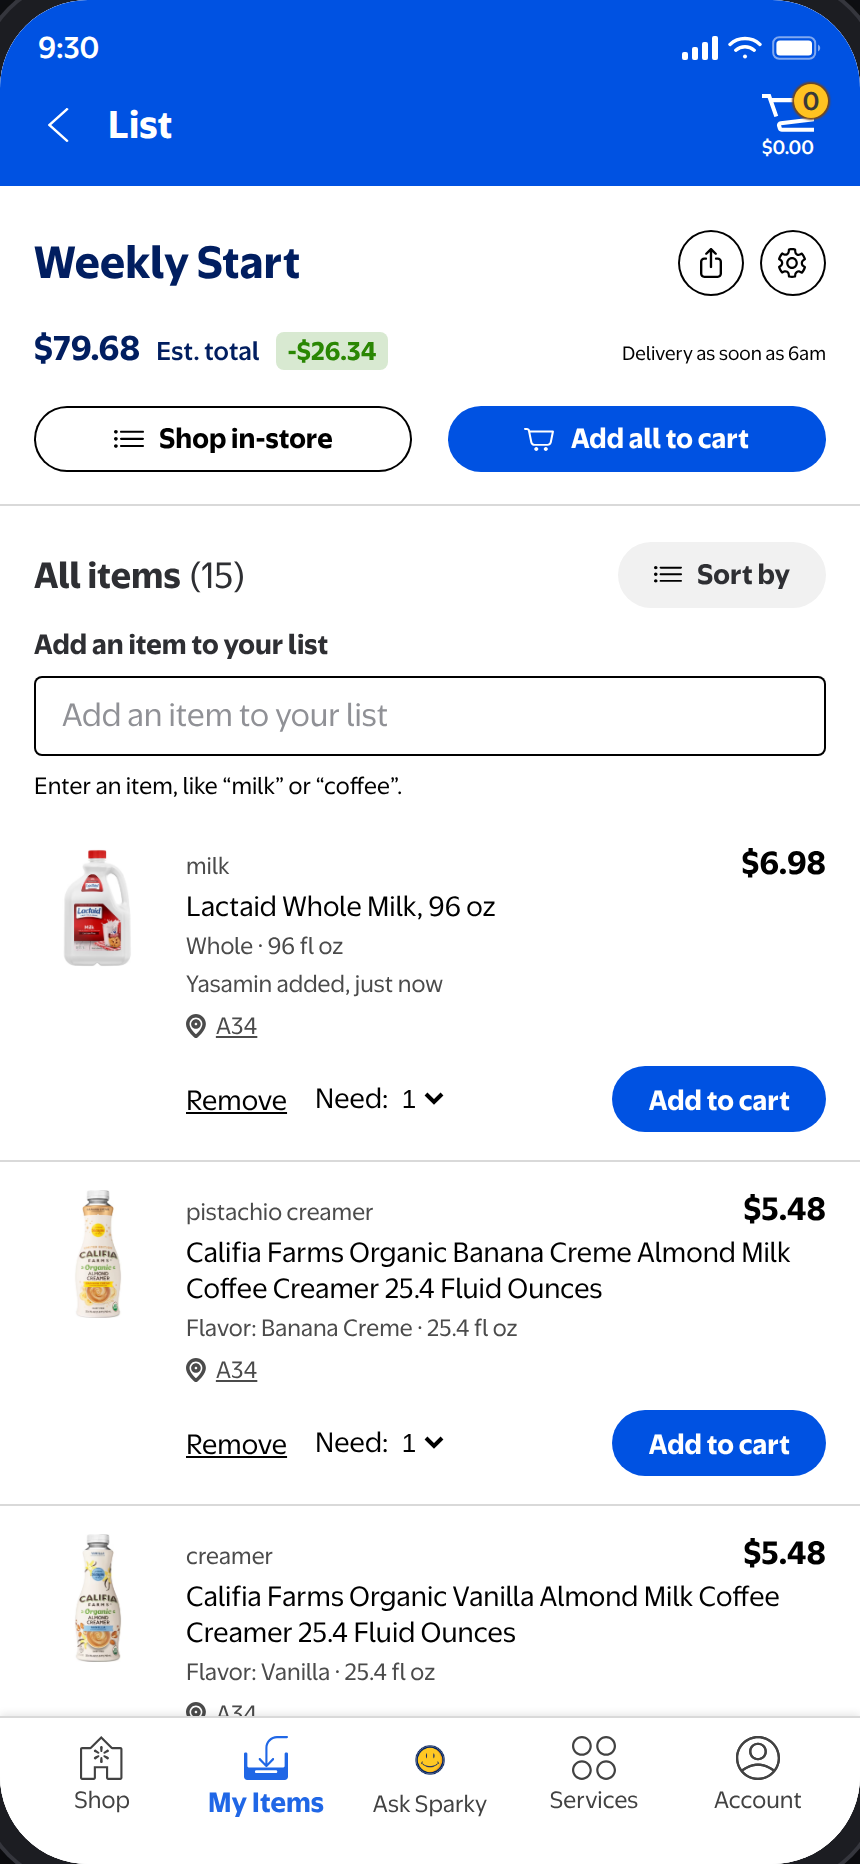
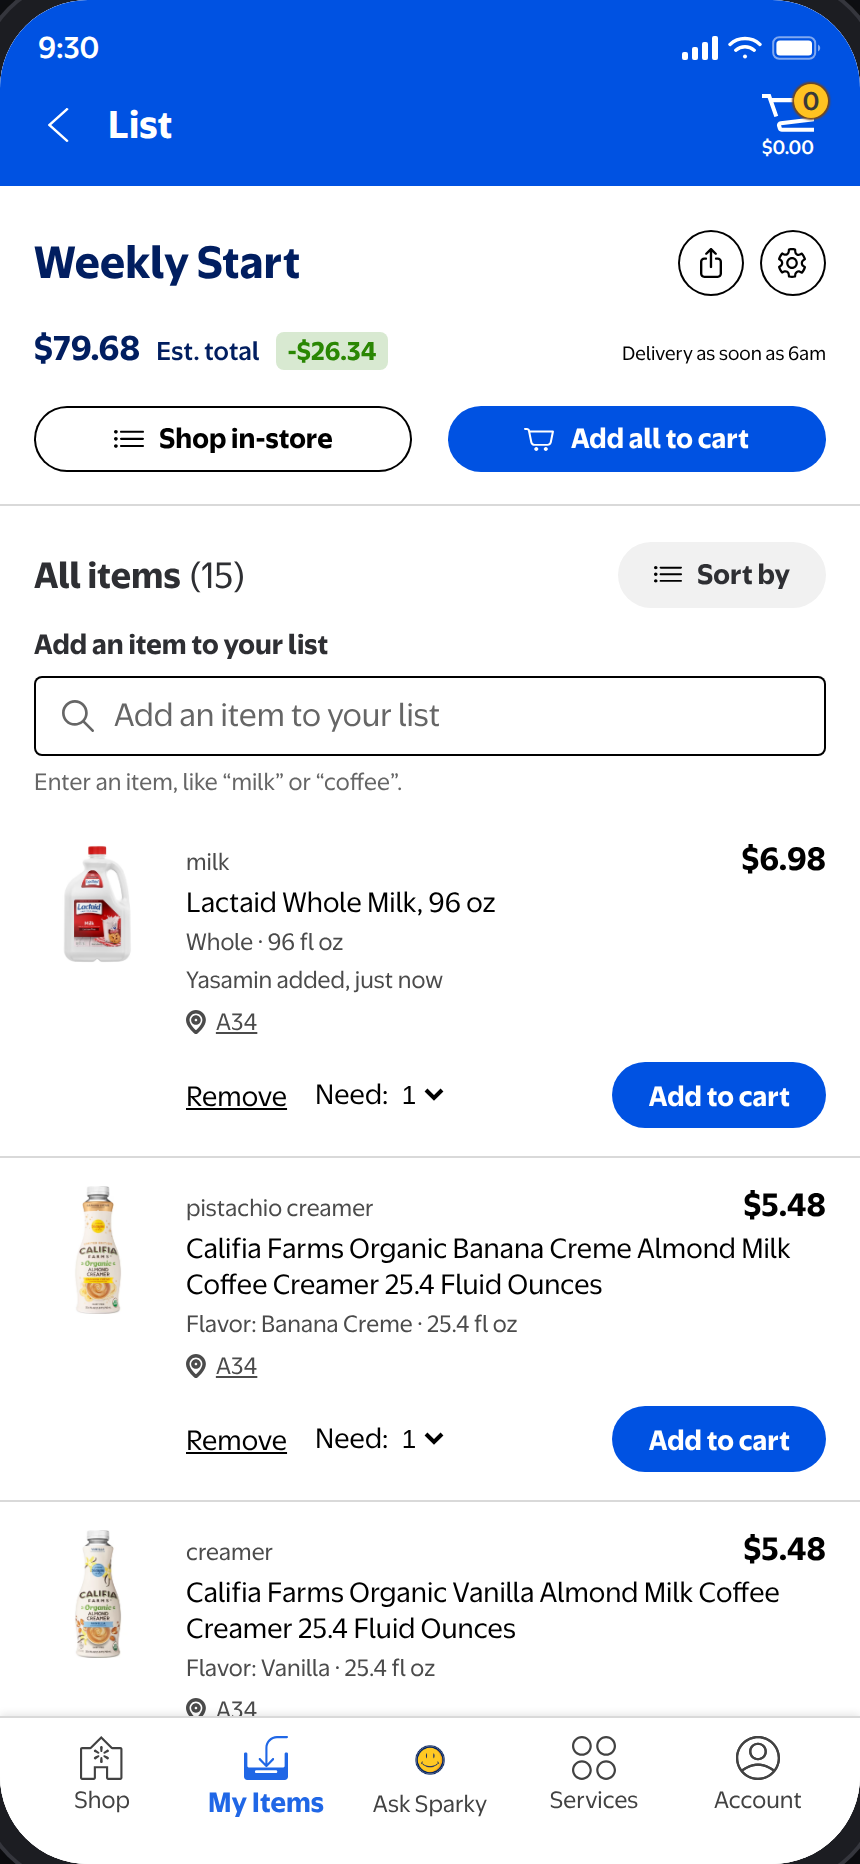
Fit the frame to the viewport, and give inputs real states
Frame
  The phone keeps the design's true 430x932 and is scaled only as far as the
  viewport demands, inside a wrapper that reserves the scaled footprint, so
  the whole device is visible with no page scroll. Verified at five window
  sizes from 1440x780 down to 390x844. The scale is a plain 2D transform with
  no will-change: pinning the raster scale is what actually softens text, not
  scaling itself.

Ask Sparky
  Was using 777bb19c, which is the same artwork flattened onto an opaque
  white square - that white box was showing in the nav. Swapped to 23e704fc,
  the 300x300 RGBA original from the same file.

Inputs
  Search is a real type=search in a form, with an accessible name, muted
  placeholder (it was full-ink black, which reads as a filled value), visible
  hover and focus states, and a clear button that appears once there is text.
  The same treatment covers the add-an-item and list-name fields, plus hint
  text tied by aria-describedby and a styled disabled state.

  One bug found while testing: the clear button was absolutely positioned but
  .searchfield was not a positioning context, so it landed on top of the cart
  button and swallowed its clicks. Inside the pill it now flows normally in
  the barcode's slot.

List view
  Rows go from 13px to 20px vertical padding, and every row carries a flash
  tag. The picked-items rows follow the same spacing in list view.

Cards
  The subtitle under each list title steps one place up the design's ramp,
[…]

diff --git a/app/src/design/tokens.css b/app/src/design/tokens.css
@@ -49,9 +49,17 @@ ul, ol { margin: 0; padding: 0; list-style: none; }
 /* ---------------- device shell ----------------
    The frame is the design's own 430x932. It is never scaled — scaling by a
    fractional factor resamples every glyph, which is what looked blurry. */
-.stage { min-height: 100%; display: grid; place-items: center; padding: 16px; }
+.stage { min-height: 100%; display: grid; place-items: center; padding: 12px; overflow: hidden; }
+
+/* `.fit` reserves the SCALED footprint so the page never scrolls; `.device`
+   keeps its true 430x932 geometry and is scaled from its top-left corner.
+   No will-change / 3D transform here — those pin the raster scale and are what
+   actually makes scaled text look soft. */
+.fit { position: relative; flex: 0 0 auto; }
+.fit > .device { position: absolute; top: 0; left: 0; transform-origin: top left; }
+
 .device {
-  width: min(var(--screen-w), 100vw);
+  width: var(--screen-w);
   height: var(--screen-h);
   background: var(--surface);
   border-radius: 44px;
@@ -87,11 +95,45 @@ ul, ol { margin: 0; padding: 0; list-style: none; }
   flex: 1; height: 42px; background: #fff; border-radius: var(--r-pill);
   display: flex; align-items: center; gap: 10px; padding: 0 16px;
 }
+/* ---------------- inputs ----------------
+   Placeholder is muted so it never reads as a filled value; focus is visible,
+   hover is felt, and a clear affordance appears once there is something to
+   clear. Touch targets stay at 40px+. */
+.searchfield {
+  position: relative;
+  transition: box-shadow .15s;
+  box-shadow: inset 0 0 0 1px transparent;
+}
+/* inside the pill the clear button takes the barcode's slot, so it flows
+   normally rather than being absolutely placed */
+.searchfield .inputclear { position: static; }
+.searchfield:hover { box-shadow: inset 0 0 0 1px var(--muted-2); }
+.searchfield:focus-within { box-shadow: 0 0 0 3px rgba(255,194,33,.9); }
 .searchfield .searchinput {
   flex: 1; border: 0; outline: 0; background: none;
   font-size: 15px; color: var(--ink); min-width: 0;
 }
-.searchfield .searchinput::placeholder { color: var(--ink); opacity: 1; }
+.searchfield .searchinput::placeholder { color: var(--ink-5); opacity: 1; }
+.searchfield .searchinput::-webkit-search-cancel-button { display: none; }
+
+.field {
+  transition: box-shadow .15s;
+}
+.field:hover:not(:disabled) { box-shadow: inset 0 0 0 1px var(--ink-2); }
+.field:focus, .field:focus-visible {
+  outline: 0;
+  box-shadow: inset 0 0 0 2px var(--wm-blue), 0 0 0 3px rgba(0,82,226,.18);
+}
+.field::placeholder { color: var(--ink-5); opacity: 1; }
+.field:disabled { background: var(--surface-2); color: var(--muted); box-shadow: inset 0 0 0 1px var(--line); }
+
+.inputwrap { position: relative; display: flex; align-items: center; }
+.inputclear {
+  position: absolute; right: 10px; width: 22px; height: 22px; border-radius: 999px;
+  background: var(--ink-2); display: grid; place-items: center;
+}
+.inputclear:hover { background: var(--ink); }
+.inputhint { font-size: 11px; color: var(--ink-5); margin-top: 6px; }
 
 .cartbtn { position: relative; width: 40px; display: grid; justify-items: center; }
 .cartbadge {
@@ -169,6 +211,8 @@ ul, ol { margin: 0; padding: 0; list-style: none; }
 .aisle-head strong { font-weight: 700; }
 
 .itemrow { display: flex; gap: 12px; padding: 14px 17px; border-bottom: 1px solid var(--line); }
+/* List view trades density for breathing room. */
+.itemrow.compact { padding: 20px 17px; }
 /* Picked items stay at full opacity — only the tick marks them done. */
 .itemrow.checked { opacity: 1; }
 .itemrow .thumb { width: 64px; height: 64px; object-fit: contain; flex: 0 0 64px; }

diff --git a/app/src/App.tsx b/app/src/App.tsx
@@ -7,39 +7,48 @@ import ListDetail from './screens/ListDetail';
 import InStore from './screens/InStore';
 import TripSummary from './screens/TripSummary';
 
-const H = 932, BEZEL = 26, PAD = 32;
+const W = 430, H = 932, BEZEL = 26, PAD = 24;
 
 /**
- * The phone keeps 1:1 pixels — scaling by a fractional factor resamples every
- * glyph and image, which is what made the earlier build look soft. When the
- * viewport is short the shell simply gets shorter and scrolls internally.
+ * The frame keeps the design's true 430x932 and is scaled only as far as the
+ * viewport demands, so the whole phone is always visible without page scroll.
+ * Scaling is a plain 2D transform with no will-change: Chrome re-rasterises
+ * text at the composited scale, which is what keeps it sharp.
  */
-function useDeviceHeight() {
-  const [h, setH] = useState(H);
+function useFitScale() {
+  const [k, setK] = useState(1);
   useEffect(() => {
-    const fit = () => setH(Math.max(560, Math.min(H, window.innerHeight - BEZEL - PAD)));
+    const fit = () => setK(Math.min(1,
+      (window.innerWidth  - PAD) / (W + BEZEL),
+      (window.innerHeight - PAD) / (H + BEZEL)));
     fit();
     window.addEventListener('resize', fit);
-    return () => window.removeEventListener('resize', fit);
+    window.addEventListener('orientationchange', fit);
+    return () => {
+      window.removeEventListener('resize', fit);
+      window.removeEventListener('orientationchange', fit);
+    };
   }, []);
-  return h;
+  return k;
 }
 
 export default function App() {
-  const h = useDeviceHeight();
+  const k = useFitScale();
   return (
     <Store>
       <HashRouter>
-        <div className="stage" style={{ ['--device-h' as string]: `${h}px` }}>
-          <Device>
-            <Routes>
-              <Route path="/" element={<Lists />} />
-              <Route path="/list/:id" element={<ListDetail />} />
-              <Route path="/list/:id/instore" element={<InStore />} />
-              <Route path="/list/:id/done" element={<TripSummary />} />
-              <Route path="*" element={<Navigate to="/" replace />} />
-            </Routes>
-          </Device>
+        <div className="stage">
+          <div className="fit" style={{ width: W * k, height: H * k }}>
+            <Device style={{ transform: k === 1 ? undefined : `scale(${k})` }}>
+              <Routes>
+                <Route path="/" element={<Lists />} />
+                <Route path="/list/:id" element={<ListDetail />} />
+                <Route path="/list/:id/instore" element={<InStore />} />
+                <Route path="/list/:id/done" element={<TripSummary />} />
+                <Route path="*" element={<Navigate to="/" replace />} />
+              </Routes>
+            </Device>
+          </div>
         </div>
       </HashRouter>
     </Store>

diff --git a/app/src/screens/ListDetail.tsx b/app/src/screens/ListDetail.tsx
@@ -58,11 +58,23 @@ export default function ListDetail() {
         </div>
 
         <div style={{ padding: '18px 16px 6px', display: 'flex', gap: 14, alignItems: 'center' }}>
-          <input className="field" autoFocus value={query} placeholder="Add an item to your list"
-                 onChange={e => setQuery(e.target.value)} style={{ flex: 1, height: 40 }} />
+          <div className="inputwrap" style={{ flex: 1 }}>
+            <input className="field" type="search" autoFocus value={query}
+                   placeholder="Add an item to your list" aria-label="Add an item to your list"
+                   autoComplete="off" spellCheck={false} enterKeyHint="search"
+                   onChange={e => setQuery(e.target.value)} style={{ height: 40 }} />
+            {query && (
+              <button type="button" className="inputclear" aria-label="Clear search"
+                      onClick={() => setQuery('')}>
+                <FigIcon name="close" size={10} color="#fff" />
+              </button>
+            )}
+          </div>
           <button style={{ fontSize: 15 }} onClick={() => { setSearching(false); setQuery(''); }}>Cancel</button>
         </div>
-        <div style={{ padding: '0 16px', fontSize: 11 }}>Enter an item, like “milk” or “coffee”.</div>
+        <div className="inputhint" style={{ padding: '0 16px' }}>
+          Enter an item, like “milk” or “coffee”.
+        </div>
 
         <ul className="scroll" style={{ padding: '12px 0' }}>
           {matches.map(m => (
@@ -152,10 +164,14 @@ export default function ListDetail() {
             Add an item to your list
           </div>
           <button className="field" onClick={() => setSearching(true)}
-                  style={{ textAlign: 'left', color: 'var(--muted)', height: 40 }}>
+                  style={{ display: 'flex', alignItems: 'center', gap: 10,
+                           textAlign: 'left', color: 'var(--ink-5)', height: 40 }}>
+            <FigIcon name="search" size={16} color="var(--ink-5)" />
             Add an item to your list
           </button>
-          <div style={{ fontSize: 11, margin: '8px 0 2px' }}>Enter an item, like “milk” or “coffee”.</div>
+          <div className="inputhint" style={{ marginBottom: 2 }}>
+            Enter an item, like “milk” or “coffee”.
+          </div>
         </div>
 
         {list.items.length === 0 ? <EmptyState /> : (

diff --git a/app/src/components/Chrome.tsx b/app/src/components/Chrome.tsx
@@ -1,4 +1,4 @@
-import type { ReactNode } from 'react';
+import { useState, type ReactNode } from 'react';
 import { useNavigate, useLocation } from 'react-router-dom';
 import { FigIcon } from '../design/FigIcon';
 import { useStore } from '../store';
@@ -49,12 +49,8 @@ export function AppBar({ title, onBack, search = false, children }: {
       <StatusBar />
       {search ? (
         <div className="appbar-search">
-          {/* design: 346x42 pill, r21; magnifier 19px, label 15px Regular, barcode 26x18 */}
-          <div className="searchfield">
-            <FigIcon name="search" size={19} color="var(--ink)" />
-            <input className="searchinput" placeholder="Search Walmart" aria-label="Search Walmart" />
-            <FigIcon name="barcode" size={19} color="var(--ink)" />
-          </div>
+          {/* design: 346x42 pill, r21; magnifier 19px, 15px input, barcode 26x18 */}
+          <SearchField />
           <CartButton />
         </div>
       ) : (
@@ -70,6 +66,34 @@ export function AppBar({ title, onBack, search = false, children }: {
       )}
       {children}
     </div>
+  );
+}
+
+/** Search with the states a real field needs: hover, focus, clear, submit. */
+function SearchField() {
+  const [q, setQ] = useState('');
+  return (
+    <form className="searchfield" role="search" onSubmit={e => e.preventDefault()}>
+      <FigIcon name="search" size={19} color="var(--ink)" />
+      <input
+        className="searchinput"
+        type="search"
+        value={q}
+        onChange={e => setQ(e.target.value)}
+        placeholder="Search Walmart"
+        aria-label="Search Walmart"
+        autoComplete="off"
+        spellCheck={false}
+        enterKeyHint="search"
+      />
+      {q ? (
+        <button type="button" className="inputclear" aria-label="Clear search" onClick={() => setQ('')}>
+          <FigIcon name="close" size={10} color="#fff" />
+        </button>
+      ) : (
+        <FigIcon name="barcode" size={19} color="var(--ink)" />
+      )}
+    </form>
   );
 }
 
@@ -152,6 +176,6 @@ export function TickRing({ checked }: { checked: boolean }) {
   );
 }
 
-export function Device({ children }: { children: ReactNode }) {
-  return <div className="device">{children}</div>;
+export function Device({ children, style }: { children: ReactNode; style?: React.CSSProperties }) {
+  return <div className="device" style={style}>{children}</div>;
 }

diff --git a/app/src/screens/Lists.tsx b/app/src/screens/Lists.tsx
@@ -77,18 +77,21 @@ export default function Lists() {
       {creating && (
         <Sheet title="Create a new list" onClose={() => setCreating(false)}>
           <label htmlFor="listname" style={{ fontSize: 13, fontWeight: 700 }}>Enter list name</label>
-          <div style={{ position: 'relative', margin: '10px 0 22px' }}>
+          <div className="inputwrap" style={{ margin: '10px 0 6px' }}>
             <input id="listname" className="field" autoFocus value={name}
-                   placeholder="Enter list name"
+                   placeholder="Enter list name" autoComplete="off" enterKeyHint="done"
+                   aria-describedby="listname-hint"
                    onChange={e => setName(e.target.value)}
                    onKeyDown={e => e.key === 'Enter' && create()} />
             {name && (
-              <button onClick={() => setName('')} aria-label="Clear"
-                style={{ position: 'absolute', right: 12, top: 11, width: 20, height: 20,
-                         borderRadius: 999, background: 'var(--ink-2)', display: 'grid', placeItems: 'center' }}>
+              <button type="button" className="inputclear" aria-label="Clear list name"
+                      onClick={() => setName('')}>
                 <FigIcon name="close" size={10} color="#fff" />
               </button>
             )}
+          </div>
+          <div id="listname-hint" className="inputhint" style={{ marginBottom: 18 }}>
+            Give it a name you'll recognise later, like "Weekly Start".
           </div>
           <button className="btn btn-primary btn-block" disabled={!name.trim()} onClick={create}>Create</button>
         </Sheet>
@@ -143,7 +146,8 @@ function ListCard({ list, onRequest }: { list: List; onRequest: () => void }) {
           <span style={{ marginLeft: 'auto', fontSize: 12 }}>Est. total ${est.toFixed(2)}</span>
         </div>
         <div style={{ display: 'flex', alignItems: 'center', marginTop: 5 }}>
-          <span style={{ fontSize: 9, color: list.pendingFrom ? 'var(--wm-blue)' : 'var(--ink)' }}>
+          {/* one step up the design's ramp (9 -> 11) so it is actually readable */}
+          <span style={{ fontSize: 11, color: list.pendingFrom ? 'var(--wm-blue)' : 'var(--ink)' }}>
             {list.subtitle}
           </span>
           <span className="savings savings-pill" style={{ marginLeft: 'auto', fontSize: 12 }}>

diff --git a/app/src/screens/InStore.tsx b/app/src/screens/InStore.tsx
@@ -4,7 +4,6 @@ import { StatusBar, TabBar, CartButton, TickRing } from '../components/Chrome';
 import { FigIcon } from '../design/FigIcon';
 import { useStore, product, byAisle, type LineItem } from '../store';
 import { asset } from '../data/assets';
-import { hasFlashTag } from '../data/catalog';
 
 export default function InStore() {
   const { id } = useParams();
@@ -94,7 +93,8 @@ export default function InStore() {
               {done.map(i => {
                 const p = product(i.productId);
                 return (
-                  <li key={i.productId} className="itemrow" style={{ alignItems: 'center', padding: '12px 17px' }}>
+                  <li key={i.productId} className={`itemrow${card ? '' : ' compact'}`}
+                      style={{ alignItems: 'center' }}>
                     <Tick on label={`Uncheck ${p.keyword}`}
                           onClick={() => d({ t: 'toggleCheck', listId: list.id, productId: p.id })} />
                     {/* list view drops the thumbnail; card view keeps it */}
@@ -163,14 +163,15 @@ function CompactRow({ listId, item }: { listId: string; item: LineItem }) {
   const { d } = useStore();
   const p = product(item.productId);
   return (
-    <li className="itemrow" style={{ alignItems: 'center', padding: '13px 17px' }}>
+    <li className="itemrow compact" style={{ alignItems: 'center' }}>
       <Tick on={item.checked} label={`Check off ${p.keyword}`}
             onClick={() => d({ t: 'toggleCheck', listId, productId: p.id })} />
       <div style={{ flex: 1, minWidth: 0 }}>
         <div style={{ fontSize: 13 }}>{p.title}</div>
         {item.addedBy && <div className="detail">{item.addedBy}</div>}
       </div>
-      {hasFlashTag(p.id) && <span className="flashtag">Flash tag</span>}
+      {/* list view carries a flash tag on every row */}
+      <span className="flashtag">Flash tag</span>
     </li>
   );
 }

diff --git a/app/src/data/catalog.ts b/app/src/data/catalog.ts
@@ -110,7 +110,8 @@ export const PEOPLE: Person[] = [
 export const SHARE_LINK = 'walmart.com/s/wk8f2a';
 /** Artwork lifted from the design, at the sizes the design uses. */
 export const ART = {
-  sparky: '/products/777bb19ce223.png',   // Ask Sparky face, 24x24 in the design
+  sparky: '/products/23e704fccdbe.png',   // Ask Sparky, the transparent original
+                                          // (777bb19… is the same art with a white box baked in)
   pickup: '/products/4d54671e659c.png',   // the Pickup-or-delivery glyph, 23x23
 };
 
